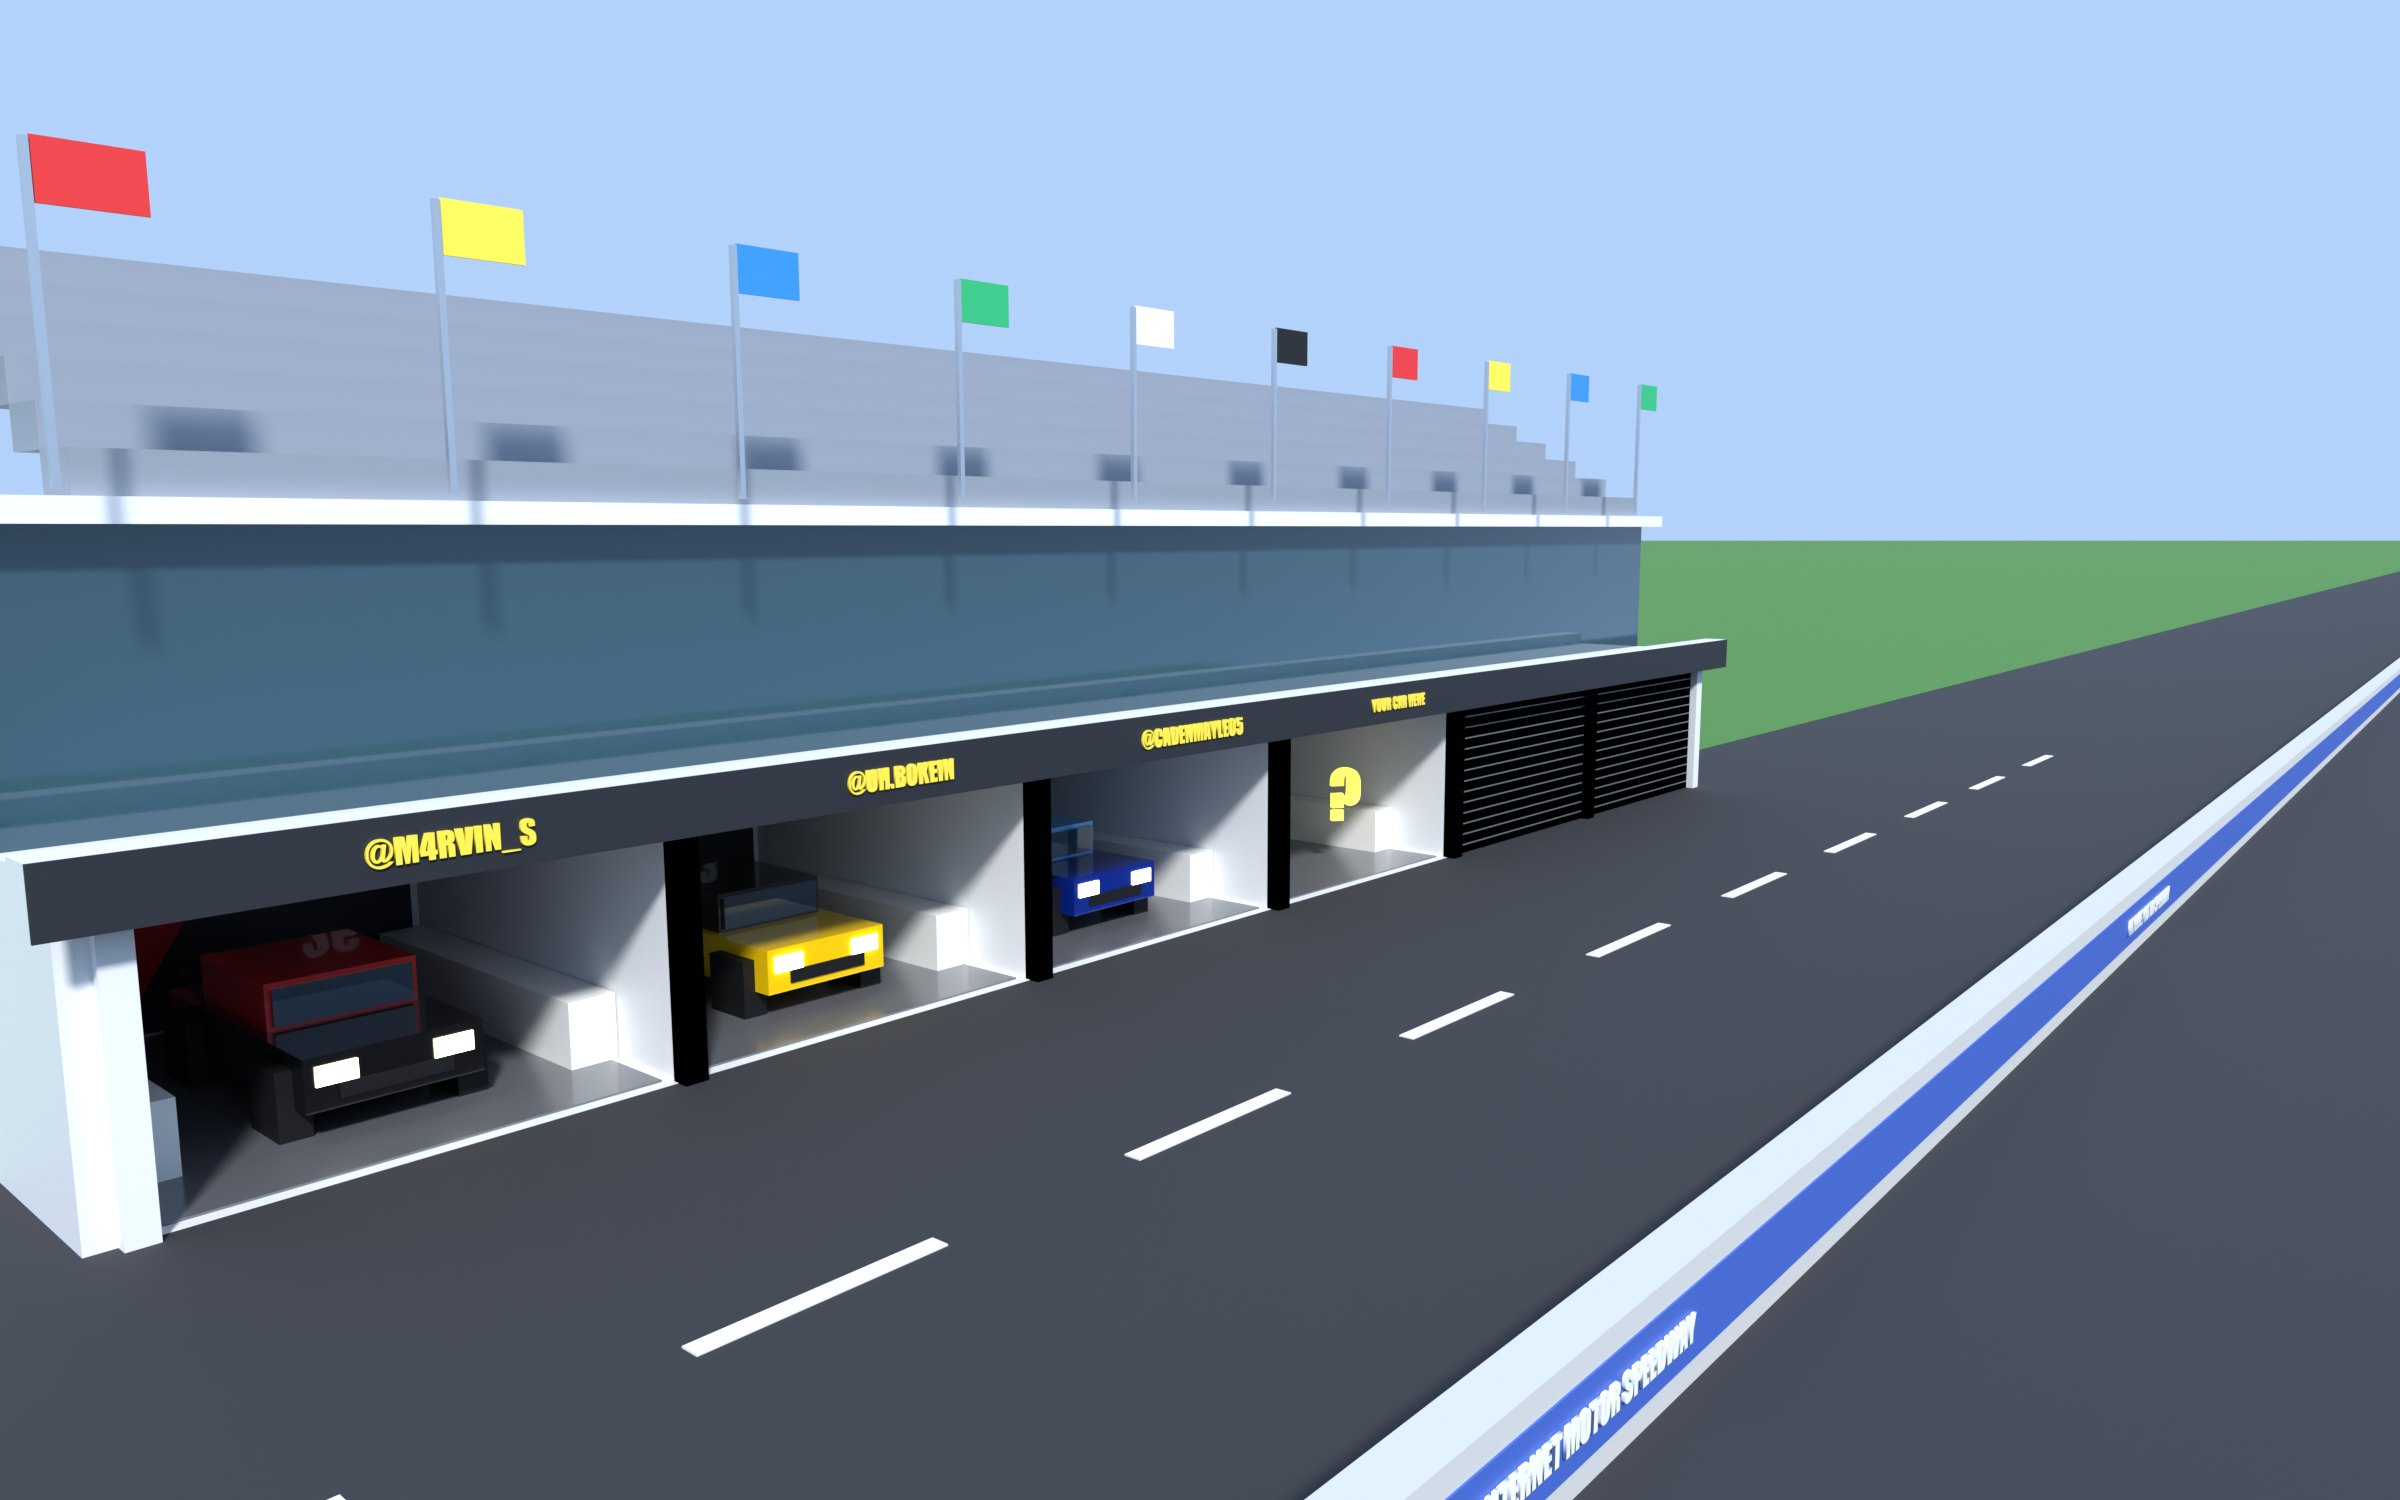
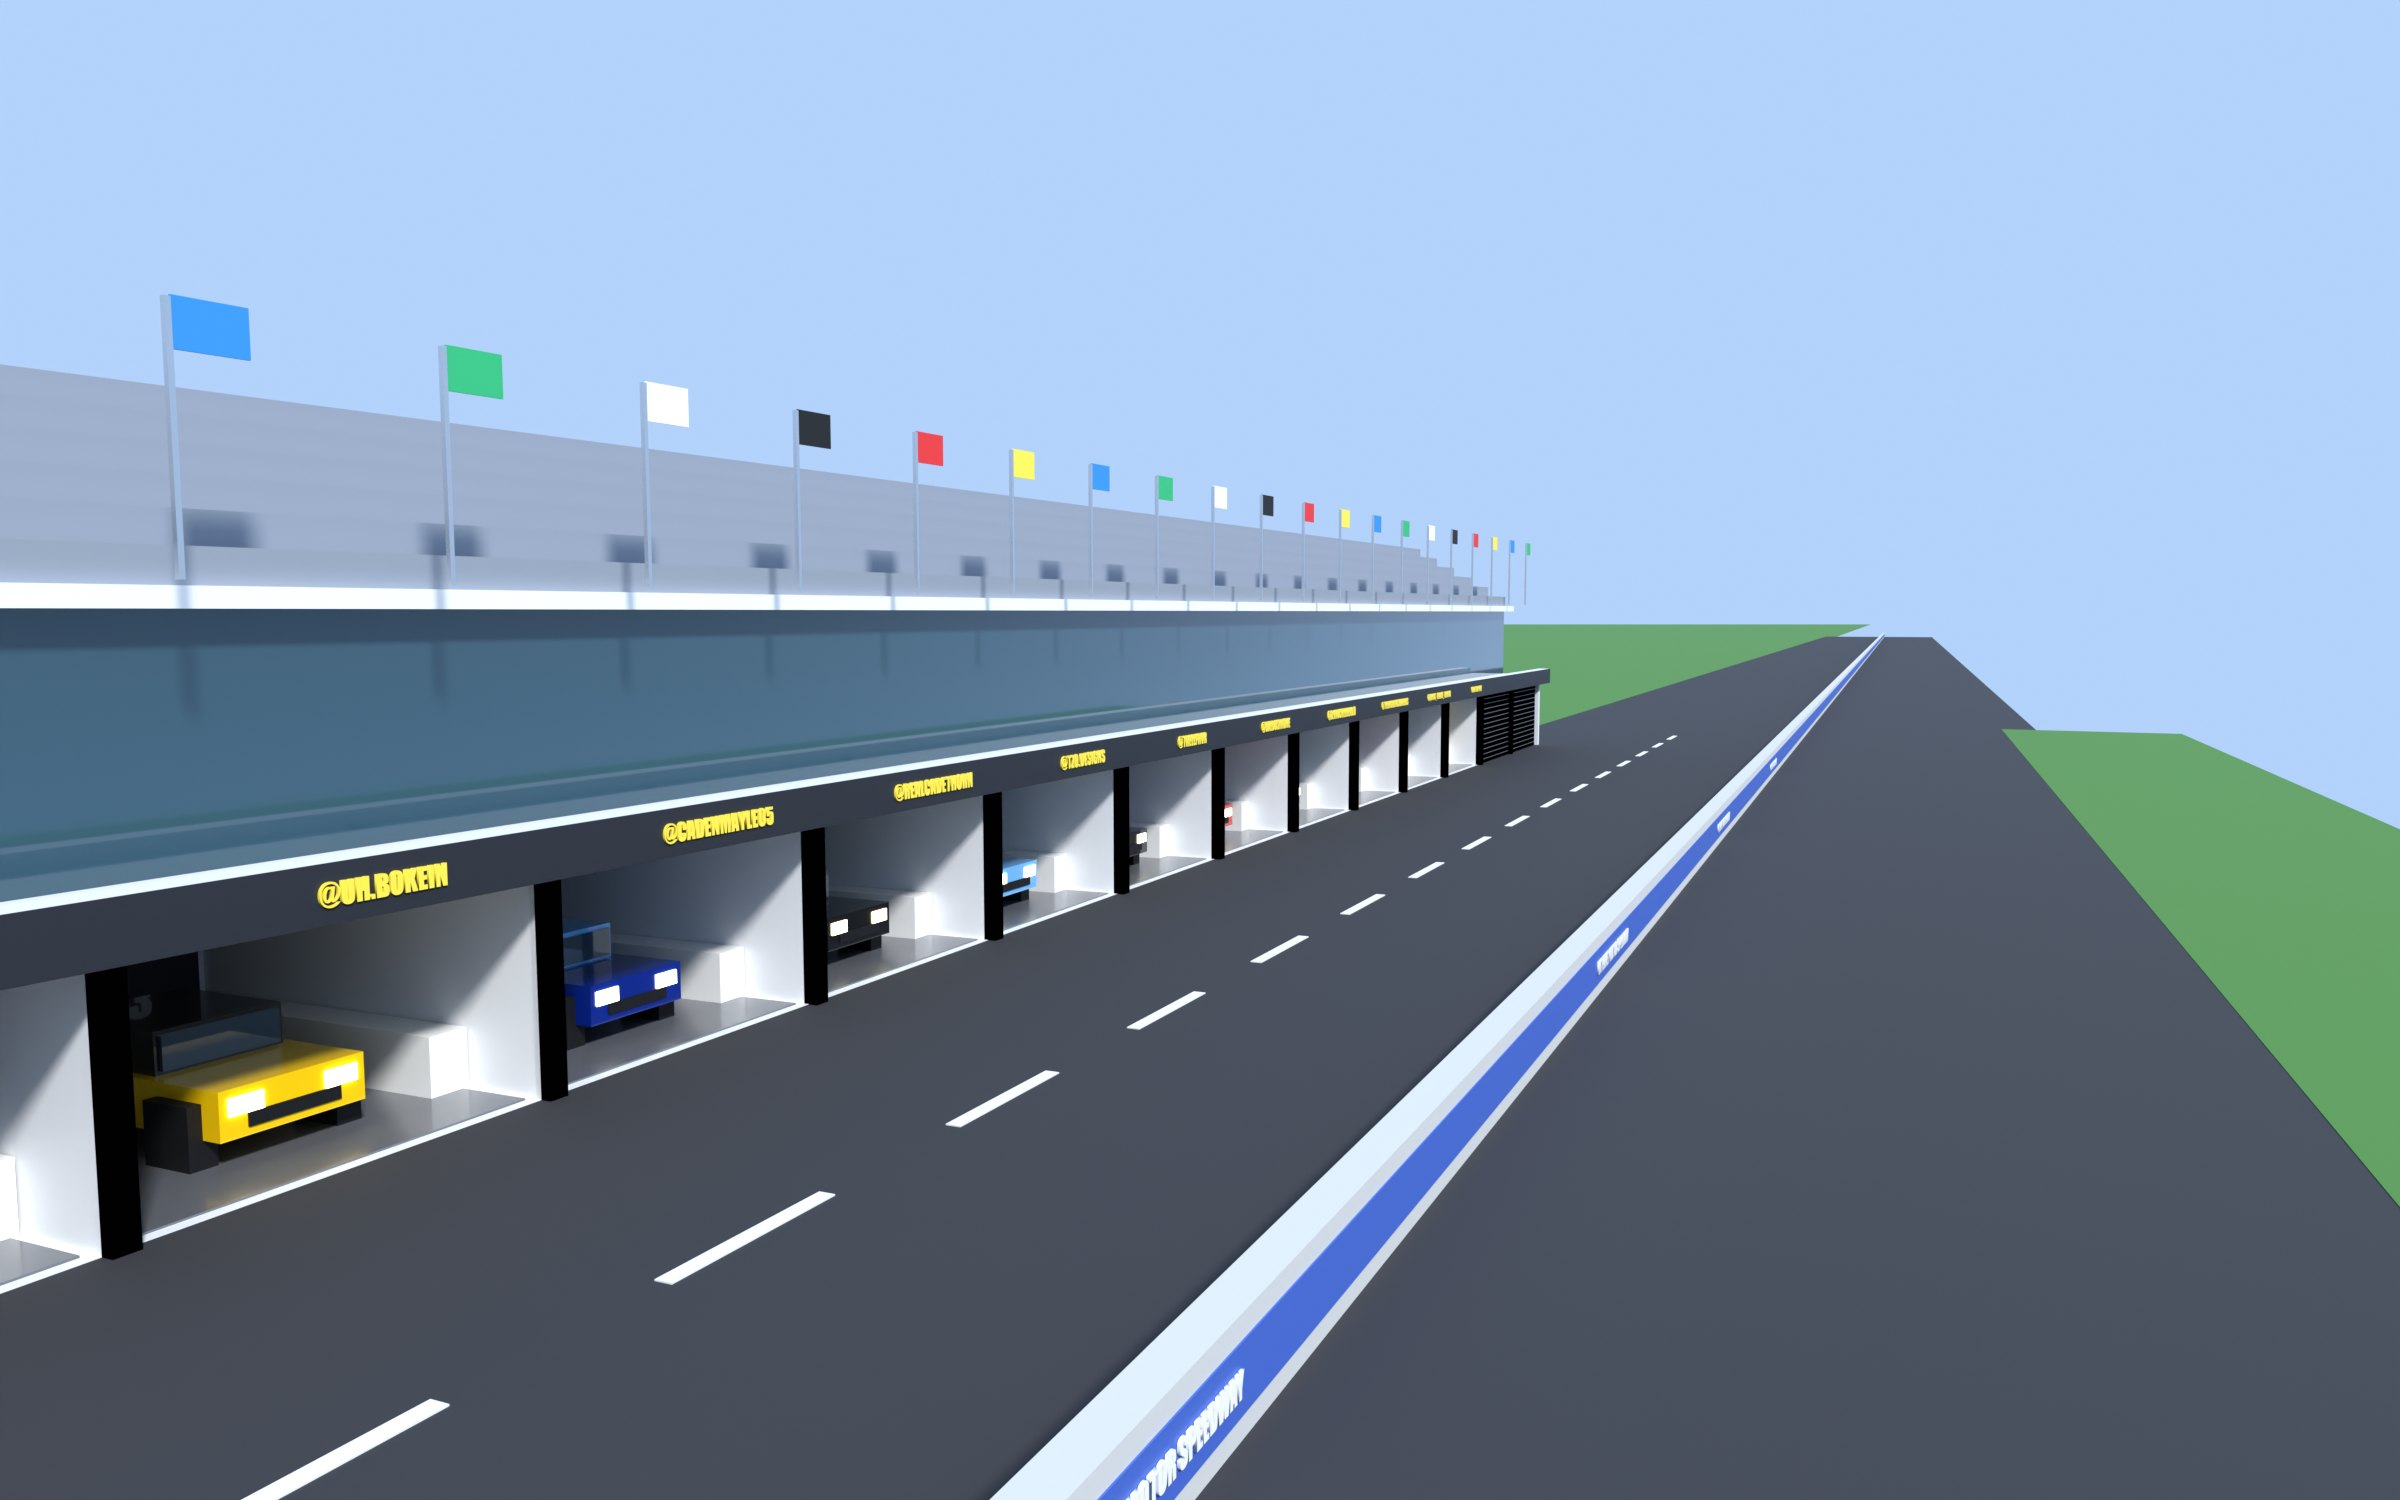
Add 7 custom cars: quinns_garage_gaming, thehighdinosaurlabs, 0.knucklehead.0, baldosimone, trellfrvr, tzo.designs, realcadethorn

diff --git a/map/index.html b/map/index.html
@@ -247,11 +247,11 @@ const CAR_PARTS = [[[0, 0, .75], [4.6, 2.2, .7], "b"], [[-.3, 0, 1.4], [2.2, 1.9
   [[-2.0, 0, 1.45], [.5, 2.2, .12], "k"], [[2.31, .72, .85], [.04, .5, .25], "l"], [[2.31, -.72, .85], [.04, .5, .25], "l"], [[2.31, 0, .62], [.04, 1.4, .2], "k"],
   [[-2.33, .72, .85], [.04, .5, .2], "t"], [[-2.33, -.72, .85], [.04, .5, .2], "t"]]
   .concat([1.5, -1.5].flatMap(f => [1.1, -1.1].map(sd => [[f, sd, .45], [.9, .4, .9], "k"])));
-function textTex(lines, w, h, bg, fg, font) {
+function textTex(lines, w, h, bg, fg, font, fit = .92) {
   const cv = document.createElement("canvas"); cv.width = w; cv.height = h; const x = cv.getContext("2d");
   if (bg) { x.fillStyle = bg; x.fillRect(0, 0, w, h); }
   x.fillStyle = fg; x.textAlign = "center"; x.textBaseline = "middle"; x.font = font;
-  let sz = +font.match(/(\d+)px/)[1]; while (x.measureText(lines).width > w * .92 && sz > 10) { sz -= 4; x.font = font.replace(/\d+px/, sz + "px"); }
+  let sz = +font.match(/(\d+)px/)[1]; while (x.measureText(lines).width > w * fit && sz > 10) { sz -= 4; x.font = font.replace(/\d+px/, sz + "px"); }
   x.fillText(lines, w / 2, h / 2 - sz * .06);
   const t = new THREE.CanvasTexture(cv); t.colorSpace = THREE.SRGBColorSpace; t.anisotropy = 4; return t;
 }
@@ -305,7 +305,7 @@ function addGarages() {
       B(W - .3, .35, .05, new THREE.MeshLambertMaterial({ color: c.roofHex }), x, GY + .33, 2.95);
       if (c.num) { const nb = new THREE.Mesh(new THREE.PlaneGeometry(2.2, 2.2), new THREE.MeshBasicMaterial({ map: textTex(c.num, 256, 256, null, "#1a1c22", "400 200px Anton, Impact, sans-serif"), transparent: true }));
         nb.position.copy(V(x, GY + .34, 4.15)); nb.rotation.y = Math.PI; scene.add(nb); }
-      const sg = new THREE.Mesh(new THREE.PlaneGeometry(W - .8, 1.1), new THREE.MeshBasicMaterial({ map: textTex("@" + c.ig.toUpperCase(), 512, 64, "#1a1c22", "#ffcc18", "400 44px Anton, Impact, sans-serif") }));
+      const sg = new THREE.Mesh(new THREE.PlaneGeometry(W - .8, 1.1), new THREE.MeshBasicMaterial({ map: textTex("@" + c.ig.toUpperCase(), 512, 64, "#1a1c22", "#ffcc18", "400 44px Anton, Impact, sans-serif", .66) }));
       sg.position.copy(V(x, GY + D + .45, H - .4)); sg.rotation.y = Math.PI; scene.add(sg);
       const g = raceCar(c);
       g.position.copy(V(x, GY + 4.6, .12)); g.rotation.y = Math.PI / 2 - .35;      // nose out toward the infield, angled a bit like a showroom
